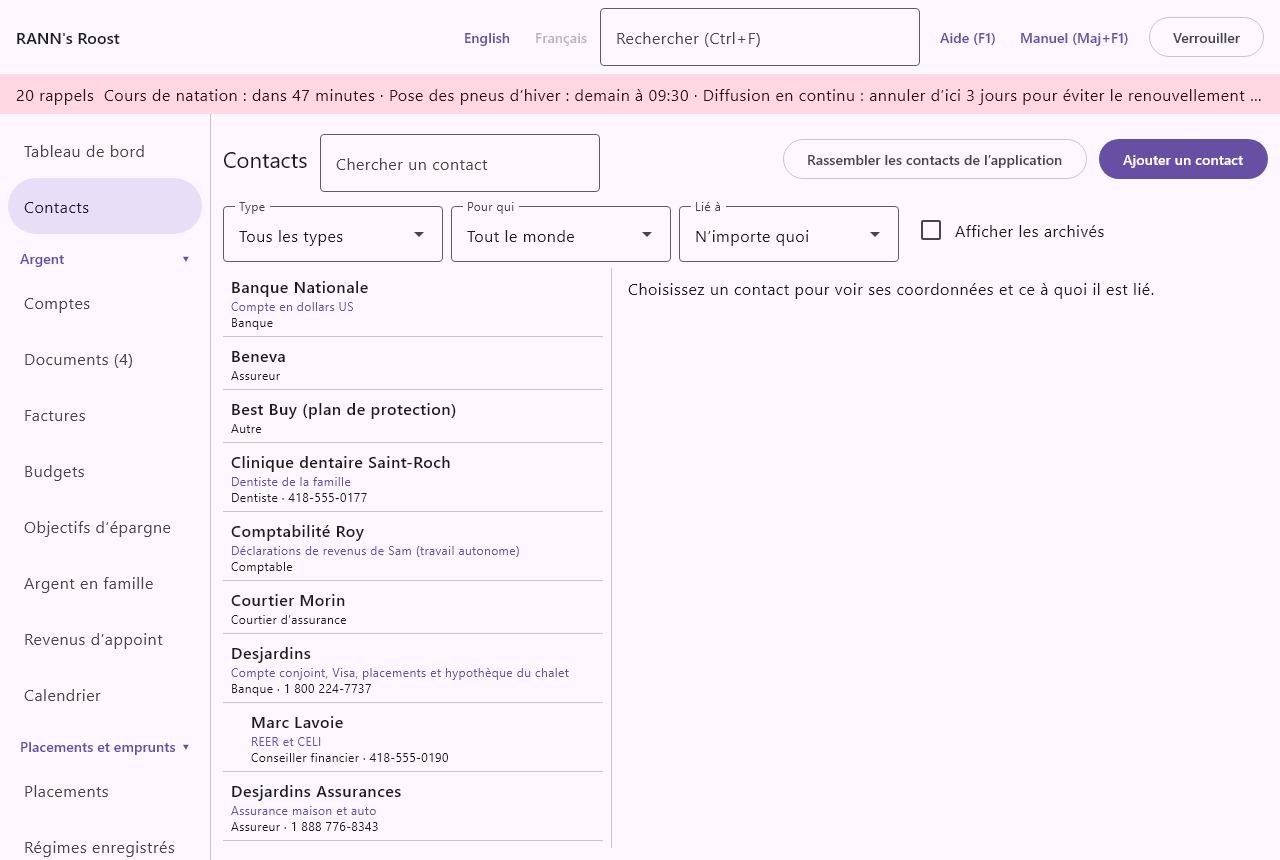
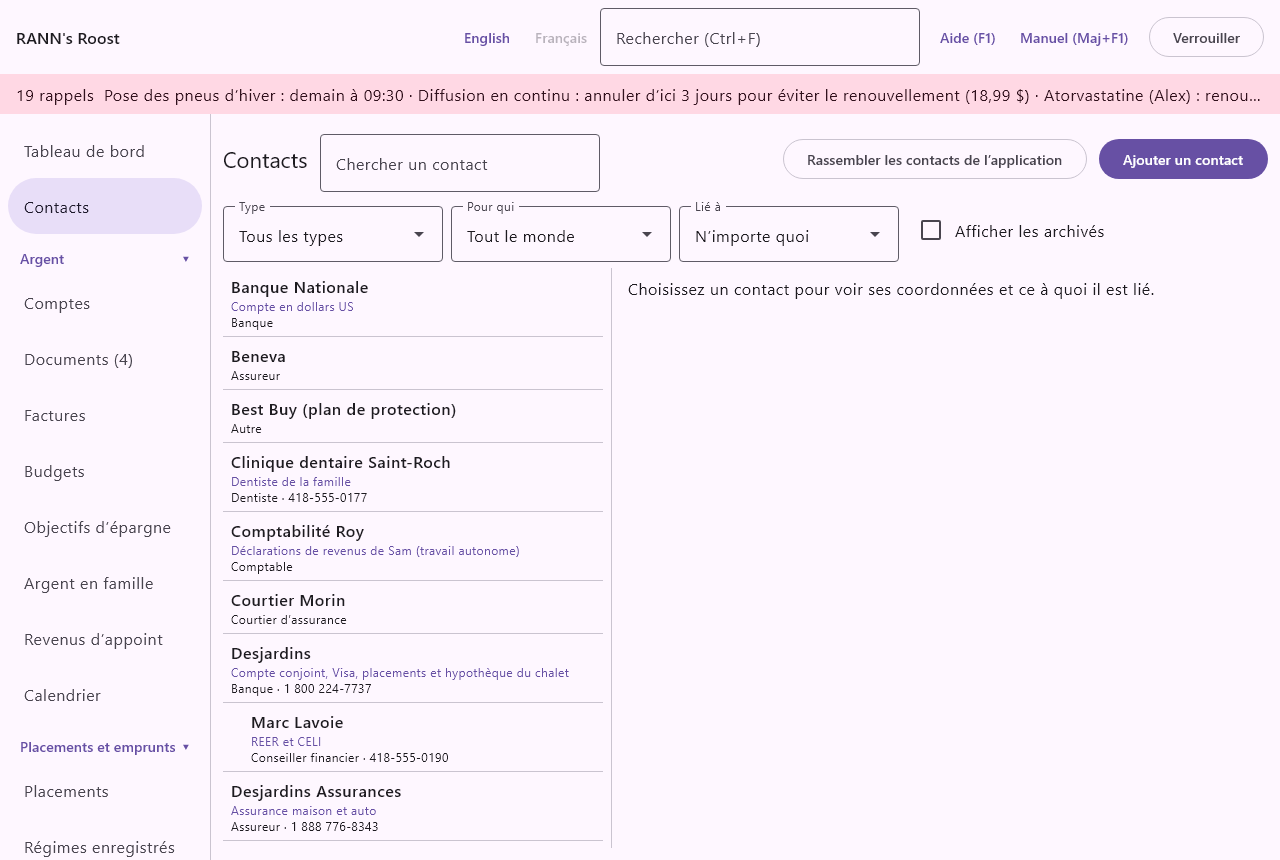
French demo contact's hours spaced; French contacts pictures retaken; development plan: manual audit, security review, store refresh

Changed region(s): [[0.0938, 0.0907, 0.9688, 0.1209]]

diff --git a/app/desktop/src/main/kotlin/ca/schippers/hfm/desktop/DemoHousehold.kt b/app/desktop/src/main/kotlin/ca/schippers/hfm/desktop/DemoHousehold.kt
@@ -1075,7 +1075,7 @@ object DemoHousehold {
         accounts.filter { it.type == AccountType.RRSP || it.type == AccountType.TFSA }.forEach { contacts.link(advisor.id, LinkRole.ADVISOR, LinkTarget.ACCOUNT, it.id) }
 
         update(l("Dre Gagnon (GMF Limoilou)", "Dr. Patel (Glebe Family Health Team)")) {
-            it.copy(purpose = l("Médecin de famille de toute la famille", "Family doctor for all of us"), hours = l("Lun-ven 8 h-17 h; sans rendez-vous le samedi", "Mon-Fri 8-5; walk-in Saturday mornings"))
+            it.copy(purpose = l("Médecin de famille de toute la famille", "Family doctor for all of us"), hours = l("Lun-ven 8 h-17 h ; sans rendez-vous le samedi", "Mon-Fri 8-5; walk-in Saturday mornings"))
         }
         update(l("Pharmacie Jean Coutu", "Shoppers Drug Mart")) { it.copy(purpose = l("Ordonnances d’Alex et de Sam", "Alex's and Sam's prescriptions"), hours = l("Tous les jours 8 h-22 h", "Every day 8 a.m.-10 p.m.")) }
         update(l("Clinique dentaire Saint-Roch", "Elgin Street Dental")) { it.copy(purpose = l("Dentiste de la famille", "Family dentist")) }

diff --git a/docs/development-plan.md b/docs/development-plan.md
@@ -388,3 +388,4 @@ The application was renamed RANN's Roost on 2026-10-03 (see the decisions log); 
 | Bills: classification and statements (2026-10-07) | Owner's request (`docs/Bill-Modifications.md`; BILL-13 to BILL-20) and answers, as recommended: the owner's Home and Business lists ship as the default and can be edited; a utility bill links to its meter so each statement's readings feed the Utilities screen; a Business bill's payments count as that person's business expenses in the year-end package; a captured bill matching no bill offers to create one or attach it. Found in the owner's test: a document filed as a Bill only updated an existing bill, so captured bills matching none never appeared in Bills |
 | Bills paid in part, instalments, column headings (2026-10-07) | Owner's request and answers: BILL-21 to BILL-25 and NAV-04. The rest of a part payment stays due on the same occurrence until paid in full; property taxes (home and business) as instalments on set dates listed on the year's statement, rolled over to next year as estimates until the new tax bill is entered; "Enter amount" (the actual amount of a variable bill, not a payment) renamed so it is not mistaken for a part payment; heading rows on every list with columns, the buttons under Actions |
 | Help menu, About, Walk-Me (2026-10-07) | Owner's request: HLP-01 to HLP-04. About existed under Settings and moves to a Help group with the Manual, the short Help and Walk-Me (step-by-step guides highlighting the controls, in a docked window, about 34 guides in English and French, from content files). Walk-Me is on the desktop; the phone keeps its short help |
+| Before release: manual audit, security review, store refresh (2026-10-08) | Manual and help checked against every screen (`docs/manual-audit-2026-10-07.md`: 102 manual passages fixed, 10 added; 38 help topics fixed, 5 added; a test that every screen has a help topic in both languages); French typography: typographic apostrophes throughout and a space before every semicolon on screen. Security review of the 2026-10-07 features (`docs/security-review-2026-10-07.md`): trip photos filed with the trip's or vehicle's group, limits on untrusted PDF page sizes, AI numbers and instalments, the Immediately lock made reliable, no recent-apps picture on Android 13+ (decided while the owner was away: privacy over convenience), address lookup only on a tap. Store texts in both languages and the 1.0.0 release notes describe this week's features; every store, website and manual phone picture retaken (All bills among the desktop store pictures, the agenda and a trip among the phone ones). The release dry run passed on every package (run 37702907243) |
